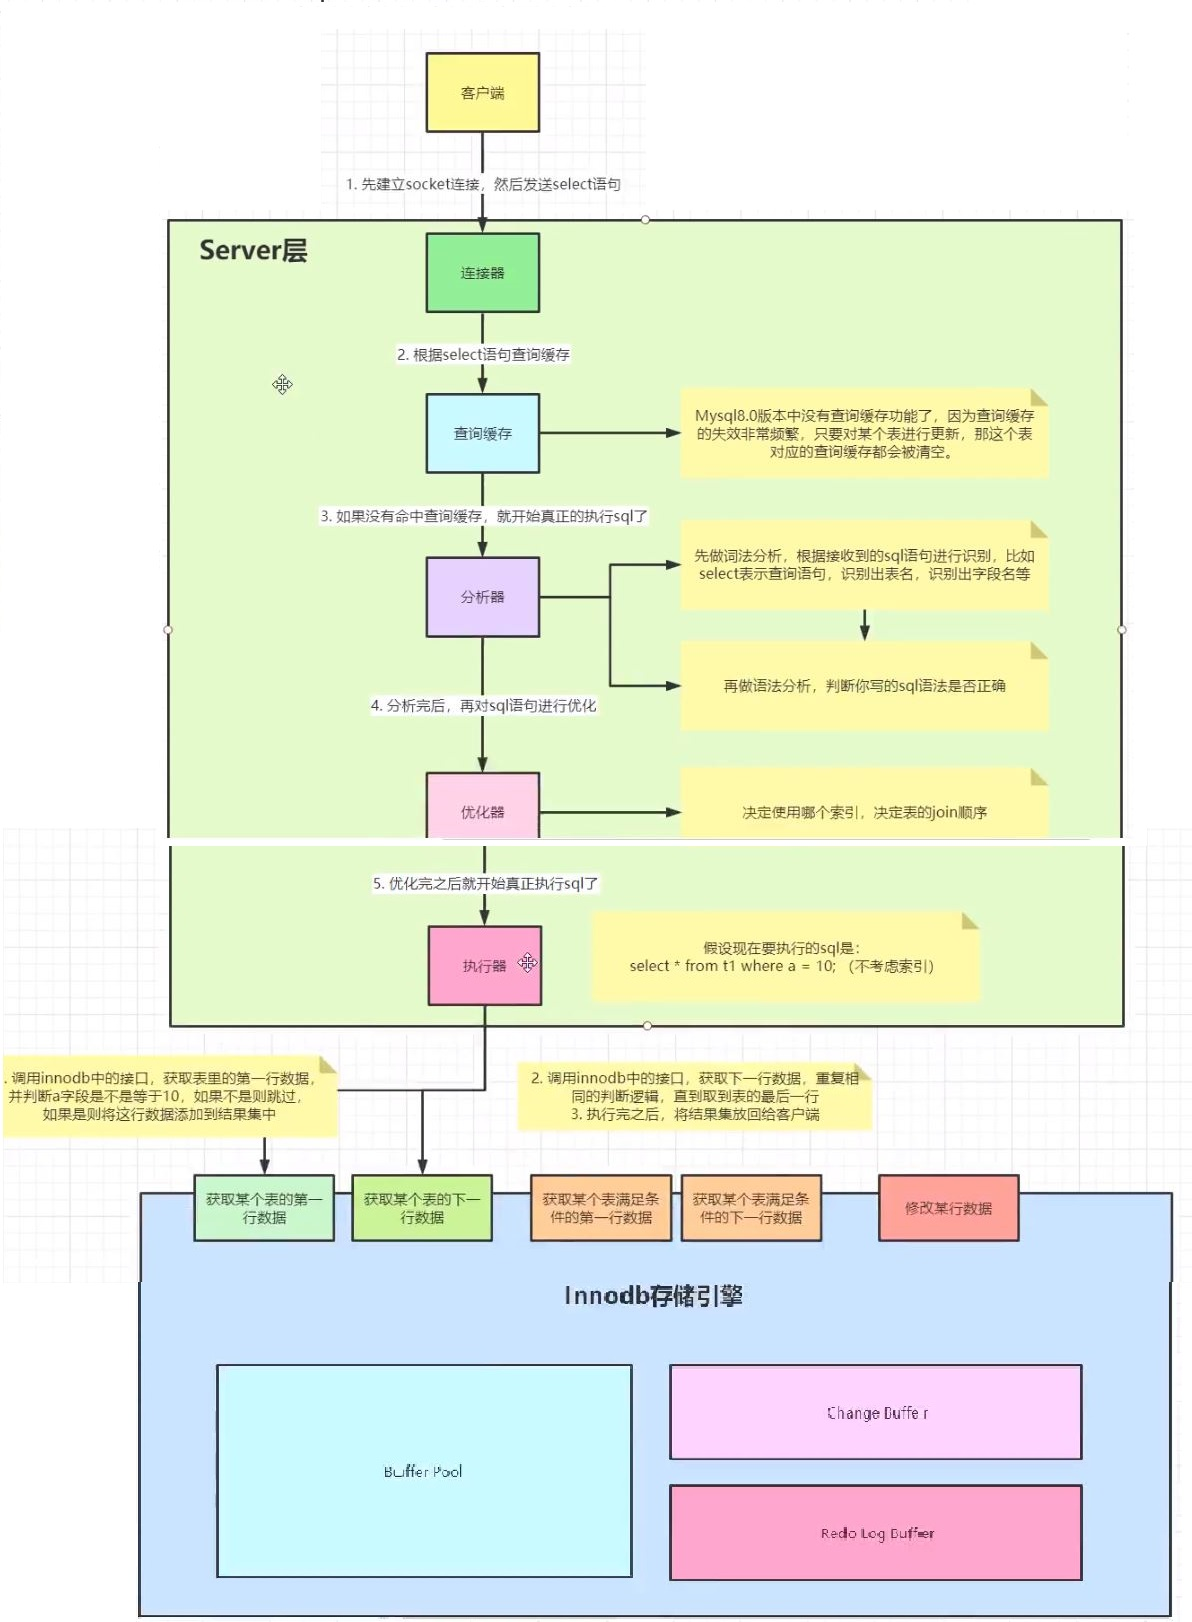
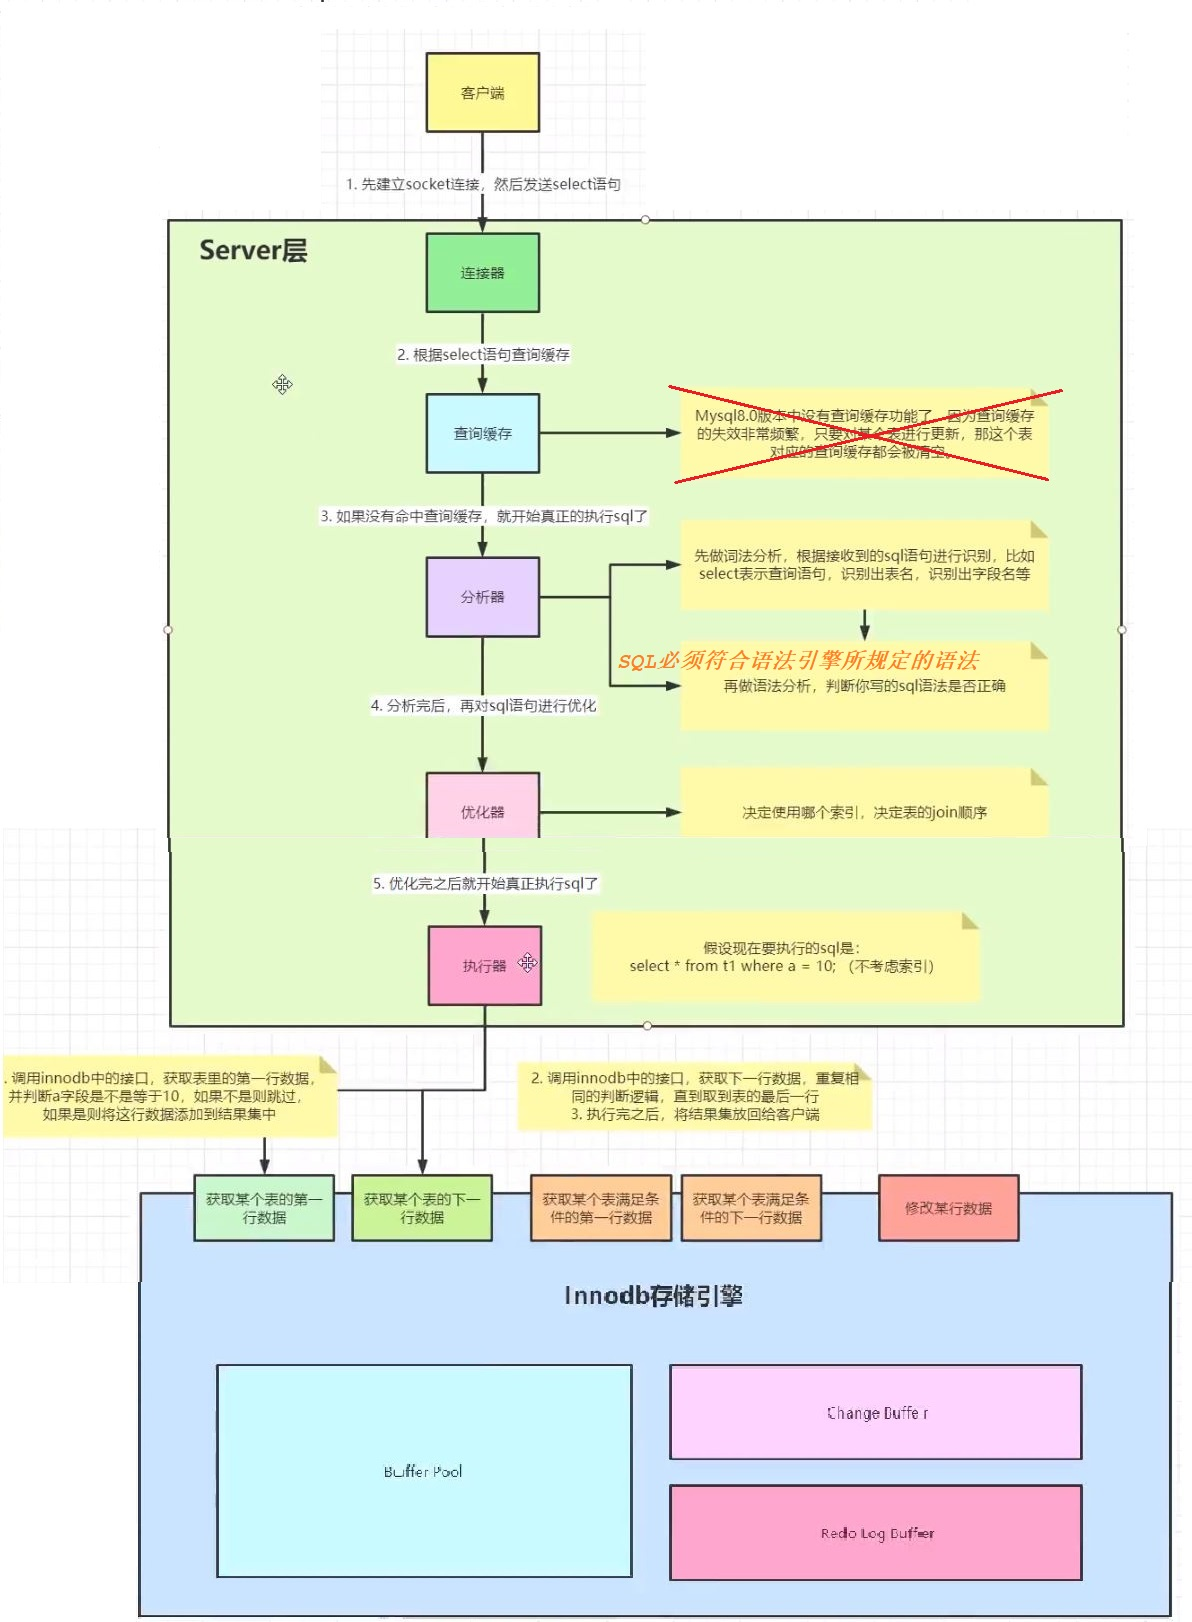
add mysql server cache

Changed region(s): [[0.1552, 0.4932, 0.9312, 0.524], [0.5277, 0.4007, 0.807, 0.4316], [0.6829, 0.2466, 0.776, 0.2774]]

diff --git a/orm-hibernate/src/main/java/BaseHibernateJPA.java b/orm-hibernate/src/main/java/BaseHibernateJPA.java
@@ -1,16 +1,18 @@
-// Java Persistence API (JPA)
-// EntityManagerFactory -> EntityManager -> EntityTransaction / Query
-// 支持乐观锁和悲观锁 https://www.objectdb.com/java/jpa/persistence/lock#Optimistic_Locking
 public class BaseHibernateJPA {
 
-    // Hibernate: ORM(Object-Relational mapping)解决方案
-    // 1. 将关系型数据库中的行数据映射成一个对象(对应的fields)，"数据表行" <--> "实体类"
-    // 2. TODO: 直接调用API执行SQL(开发层面不可见)，对于需要优化SQL语句的场景不适用
-    // 4. 支持乐观锁悲观锁 https://docs.jboss.org/hibernate/orm/4.0/devguide/en-US/html/ch05.html
+    // Java Persistence API (JPA)
+    // EntityManagerFactory -> EntityManager -> EntityTransaction / Query
+    // 支持乐观锁和悲观锁 https://www.objectdb.com/java/jpa/persistence/lock#Optimistic_Locking
 
-    // Hibernate两层架构
+    // Hibernate: ORM(Object-Relational mapping)
+    // 两层架构:
     // 1. Hibernate Local API (功能较多): Session, SessionFactory, Transactions,,,
     // 2. Hibernate JPA   API (功能较少): EntityManagerFactory, EntityManager,,,
-    // https://docs.jboss.org/hibernate/orm/5.4/quickstart/html_single/
-    // http://www.hibernate.org/dtd/hibernate-mapping
+    //    https://docs.jboss.org/hibernate/orm/5.4/quickstart/html_single/
+    //    http://www.hibernate.org/dtd/hibernate-mapping
+    //
+    // 框架特点:
+    // 1. 将关系型数据库中的行数据映射成一个对象(对应的fields)，"数据表行" <--> "实体类"
+    // 2. 通过@Query("query")自定义SQL语句，直接嵌入到源代码中，更新则需要重新编译
+    // 3. 不太适合于需要优化SQL语句的场景
 }

diff --git a/relational-db-mysql/src/main/java/mysql_master/MysqlOptimization.java b/relational-db-mysql/src/main/java/mysql_master/MysqlOptimization.java
@@ -1,5 +1,6 @@
 package mysql_master;
 
+// 基本原则: 满足数据库开发常见规范和约束
 // 基础优化策略：数据库表优化，索引优化，SQL慢查询的优化
 // 高级优化策略: 分布式缓存，CDN，数据库读写分离(CopyOnWrite思想)
 public class MysqlOptimization {
@@ -23,13 +24,13 @@ public class MysqlOptimization {
     //   where条件单表查，锁定最小返回记录表
     //   explain查看执行计划
     //   order by limit 形式的sql语句让排序的表优先查
-    //   了解业务方使用场景
-    // 2. 优化原则
-    //   2.1 查询时尽量写全字段名，避免使用*查询
-    //   2.2 大部分情况连接效率远大于子查询
-    //   2.3 多使用explain和profile分析查询语句
-    //   2.4 查看慢查询日志，找出执行时间长的sql语句优化
-    //   2.5 多表连接时，尽量小表驱动大表，即小表join大表
-    //   2.6 在千万级分页时使用limit
-    //   2.7 对于经常使用的查询，可以开启缓存
+    // 2. 了解业务方使用场景
+    // 3. 优化原则
+    //    3.1 查询时尽量写全字段名，避免使用*查询
+    //    3.2 大部分情况连接效率远大于子查询
+    //    3.3 多使用explain和profile分析查询语句
+    //    3.4 查看慢查询日志，找出执行时间长的sql语句优化
+    //    3.5 多表连接时，尽量小表驱动大表，即小表join大表
+    //    3.6 在千万级分页时使用limit
+    //    3.7 对于经常使用的查询，可以开启缓存
 }

diff --git a/relational-db-mysql/src/main/java/mysql_basics/BaseMysql.java b/relational-db-mysql/src/main/java/mysql_basics/BaseMysql.java
@@ -1,8 +1,8 @@
 package mysql_basics;
 
-// TODO: 主要数据库开发常见规范
-// MySQL数据库的数据实际存储在安装目录下/data/数据库名称/...(一个库对于一个文件夹)
-// ** Oracle购买的MySQL(限制其发展前景), 首推Oracle DB付费版权数据库 **
+// MySQL数据库：
+// 1. Oracle旗下免费DB
+// 2. MySQL数据实际存储在安装目录下/data/数据库名称/...(一个库对于一个文件夹)
 public class BaseMysql {
 
     // 基本数据类型的理解
@@ -41,7 +41,7 @@ public class BaseMysql {
      * 2. TRUNCATE TABLE old_table_name; 只清空表中的全部数据，并且只写入一次日志信息
      */
 
-    /* 创建View视图，并从视图中查询数据: 视图数据的变化和原表数据的变化相互影响 !!
+    /* 创建View视图，并从视图中查询数据: 视图数据的变化和原表数据的变化相互影响
      * CREATE VIEW view_name AS
      * SELECT column1, column2 ,,,
      * FROM old_table_name;

diff --git a/orm-mybatis/src/main/java/mybatis_basics/MyBatisBasics.java b/orm-mybatis/src/main/java/mybatis_basics/MyBatisBasics.java
@@ -35,8 +35,7 @@ public class MyBatisBasics {
 
     // ${}和#{}的区别
     // 1. ${}是字符串替换，直接把${}替换成变量的值，调用.createStatement()
-    // 2. #{}是预编译，会先替换成?，调用.prepareStatement(query)来赋值
-    // 3. #{}可以防止SQLz注入
+    // 2. #{}是预编译(防止SQLz注入)，会先替换成?，调用.prepareStatement(query)来赋值
 
     // TODO: 访问数据库必须使用连接池, 提供可靠性保护：网络中断自动重连, 连接数限制，定期回收连接，设置超时时间等
     // 1. 必须具有自动重连的功能

diff --git a/orm-mybatis/src/main/java/mybatis_basics/config/xml_settings/MyBatisSettings.java b/orm-mybatis/src/main/java/mybatis_basics/config/xml_settings/MyBatisSettings.java
@@ -36,7 +36,8 @@ public class MyBatisSettings {
     //    MetaClass metaConfig = MetaClass.forClass(Configuration.class, localReflectorFactory);
     //    for (Object key : props.keySet()) {
     //      if (!metaConfig.hasSetter(String.valueOf(key))) {
-    //        throw new BuilderException("The setting " + key + " is not known.  Make sure you spelled it correctly (case sensitive).");
+    //        throw new BuilderException("The setting " + key + " is not known.
+    //        Make sure you spelled it correctly (case sensitive).");
     //      }
     //    }
     //    return props;

diff --git a/orm-mybatis/src/main/java/mybatis_basics/config/plugins/Plugin.java b/orm-mybatis/src/main/java/mybatis_basics/config/plugins/Plugin.java
@@ -12,8 +12,8 @@ import java.util.Map;
 import java.util.Set;
 
 // TODO: 插件代理的实现
-//  target被代理对象上调用的方法，会执行到代理类Plugin上的invoke()方法
-//  如果满足method拦截的条件，则会调用自定义拦截器的拦截.intercept()方法
+// target被代理对象上调用的方法，会执行到代理类Plugin上的invoke()方法
+// 如果满足method拦截的条件，则会调用自定义拦截器的拦截.intercept()方法
 public class Plugin implements InvocationHandler {
 
     // 需要被代理的实例: executor执行器

diff --git a/relational-db-mysql/src/main/java/mysql_basics/cache/MysqlServerCache.java b/relational-db-mysql/src/main/java/mysql_basics/cache/MysqlServerCache.java
@@ -1,0 +1,8 @@
+package mysql_basics.cache;
+
+// MySql Server中具有"查询缓存"
+// 1. 缓存命中: 通过哈希值引用缓存存放的引用列表，保证SQL语句一致才能命中
+// 2. 缓存失效问题: 只要对某表进行更新，则那个表对应的缓存会被清空 > 在MySQL 8.0之后废弃
+// 3. 缓存配置参数
+public class MysqlServerCache {
+}

diff --git a/relational-db-mysql/src/main/java/mysql_basics/explain/ExplainTool.java b/relational-db-mysql/src/main/java/mysql_basics/explain/ExplainTool.java
@@ -1,4 +1,4 @@
-package mysql_basics;
+package mysql_basics.explain;
 
 // Explain Tool工具: 提供MySQL执行语句的信息
 // 使用explain可以模拟优化器执行SQL语句，分析查询语句或结构的性能瓶颈
